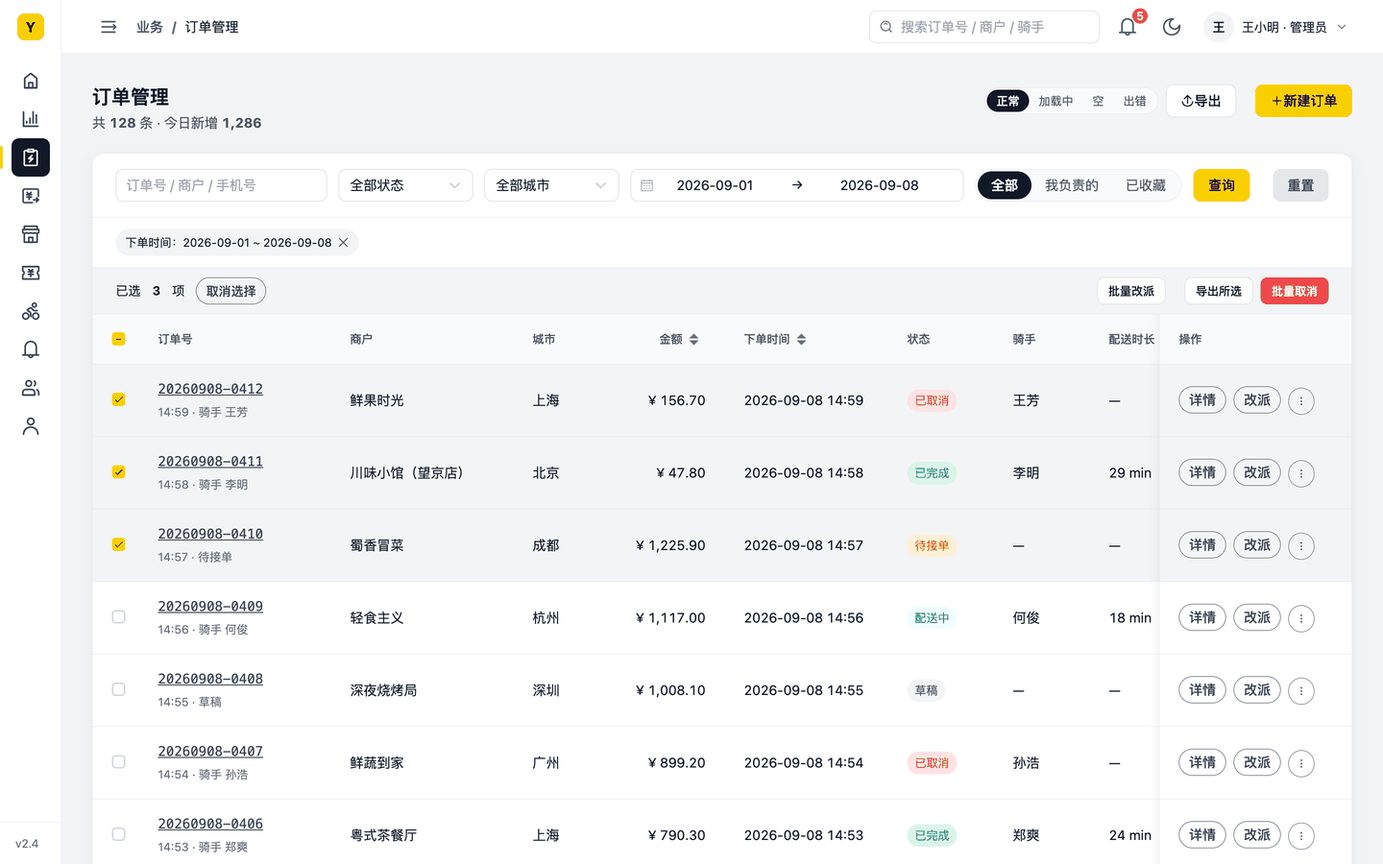
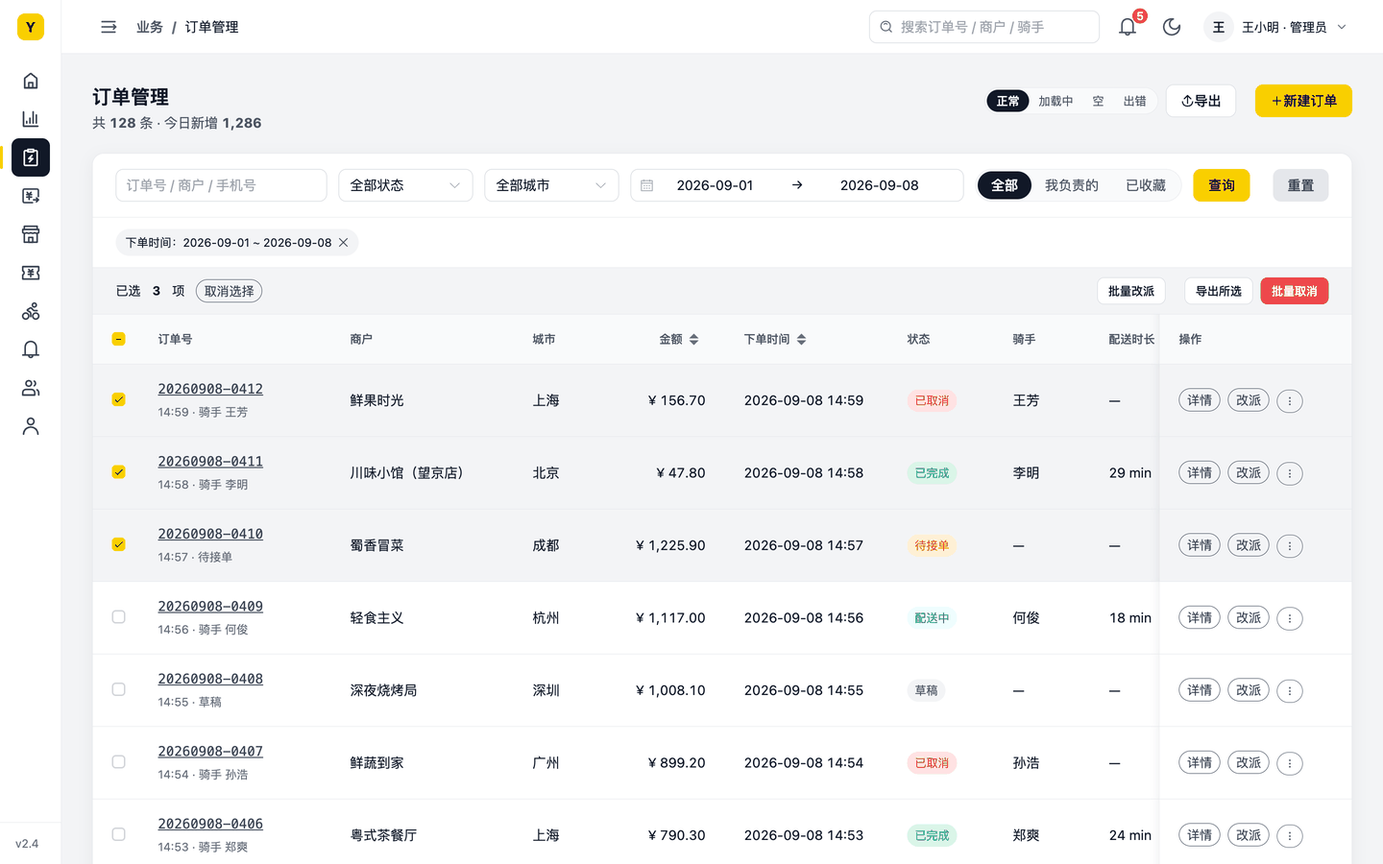
Citrine 2.3.0：操作胶囊减重（24 高 / 13px / 400），修 a 与 button 不同形
- 新增 token control.height.xs（24）：行内胶囊档，不是按钮档
- .act 高 28→24、内边距 10→8、字号 14→13、字重 500→400，与同一行状态胶囊同一轻重
- button.act 不再用 font: inherit 简写（它把字重行高一并重置，导致 a 500 / button 400）
- DESIGN 先读这里 / 链接四层 / 控件档位 / 表格配方与操作列宽估算（44 / 70 / 28）同步；README、AGENTS、预览 admin.css 与 tokens-base 同步
- CHANGELOG 2.3.0、FINDINGS D72；验收全绿；README 截图重拍

diff --git a/citrine/testbed/golden-admin/app/src/styles/app.css b/citrine/testbed/golden-admin/app/src/styles/app.css
@@ -9,14 +9,14 @@ a { color: inherit; text-decoration: none; }
 .link.danger:hover { color: var(--color-text-danger); }
 .link.mono, .mono.link { font-style: normal; }   /* 等宽数字型链接（订单号、单号）不斜体：数字斜体显歪 */
 /* 操作链接（动词：编辑 / 复制 / 详情 / 改派 / 催单…）：不是内容型链接，不斜体不下划线。
-   形态是"同色胶囊描边"——文字与描边同色（currentColor），无填充，高度 control.height.sm，胶囊圆角；hover 底色 bg.hover。
-   与按钮的区别：不填充、描边是发丝线、字重 500 而非按钮的实底 / 描边灰。危险动作红字红边，hover 浅红底。相邻胶囊间距 space.inline，不再用「·」分隔 */
-.act, td .act { color: var(--color-text-link); font-weight: var(--text-weight-label); text-decoration: none; font-style: normal; cursor: pointer; display: inline-flex; align-items: center; justify-content: center; gap: var(--spacing-1); height: var(--control-height-sm); min-height: 0; padding: 0 var(--spacing-2-5); border: var(--border-width-default) solid currentColor; border-radius: var(--radius-full); line-height: 1; white-space: nowrap; }
+   形态是"同色胶囊描边"——文字与描边同色（currentColor），无填充，行内胶囊档 control.height.xs（与状态胶囊同高）、text.body-sm 字号、400 字重，胶囊圆角；hover 底色 bg.hover。
+   与按钮的区别：不填充、描边是发丝线、不到按钮的高度档。危险动作红字红边，hover 浅红底。相邻胶囊间距 space.inline，不再用「·」分隔 */
+.act, td .act { color: var(--color-text-link); font-family: inherit; font-size: var(--text-body-sm-size); font-weight: var(--font-weight-regular); text-decoration: none; font-style: normal; cursor: pointer; display: inline-flex; align-items: center; justify-content: center; gap: var(--spacing-1); height: var(--control-height-xs); min-height: 0; padding: 0 var(--spacing-2); border: var(--border-width-default) solid currentColor; border-radius: var(--radius-full); line-height: 1; white-space: nowrap; }
 .act:hover { color: var(--color-text-link-hover); background: var(--color-bg-hover); }
 .act.danger, .act.danger:hover { color: var(--color-text-danger); }
 .act.danger:hover { background: var(--color-status-error-bg); }
 .act + .act { margin-left: var(--space-inline); }
-button.act { background: transparent; font: inherit; }   /* 用 <button> 承载时去掉浏览器默认外观；<a> 与 <button> 同形 */
+button.act { background: transparent; margin: 0; }   /* 用 <button> 承载时去掉浏览器默认外观；字体由 .act 自己声明（不能用 font 简写 inherit——它会把字重、行高一并重置，<a> 与 <button> 就不同形了） */
 .act:disabled, .act.is-disabled { opacity: var(--opacity-disabled); cursor: not-allowed; pointer-events: none; }   /* 不可用的动作保留位置、压淡，不隐藏——列宽不跳 */
 /* 导览链接（查看全部 / 查看列表）：不是动作而是"去另一处看"，文字 + 右箭头图标引导，不描边不斜体；只有图标时（列表项右侧的 ›）用 icon.muted */
 .go { display: inline-flex; align-items: center; gap: var(--spacing-1); color: var(--color-text-link); font-weight: var(--text-weight-label); text-decoration: none; font-style: normal; cursor: pointer; min-height: var(--control-hit-min); }

diff --git a/citrine/previews/yellow-admin/admin.css b/citrine/previews/yellow-admin/admin.css
@@ -9,7 +9,7 @@ a { color: inherit; text-decoration: none; }
 td a, p a, .alert a, .help a, .link { color: var(--color-text-link); text-decoration: var(--text-link-decoration); font-style: var(--text-link-style); }
 td a:hover, p a:hover, .alert a:hover, .help a:hover, .link:hover { color: var(--color-text-link-hover); }
 /* 操作链接（动词）：同色胶囊描边，不斜体不下划线，500 字重，hover 底色；内容型链接（订单号、名称）保留斜体 + 下划线 */
-.act, td a.act, .alert a.act, p a.act { color: var(--color-text-link); font-weight: var(--text-weight-label); text-decoration: none; font-style: normal; display: inline-flex; align-items: center; height: var(--control-height-sm); padding: 0 var(--spacing-2-5); border: var(--border-width-default) solid currentColor; border-radius: var(--radius-full); line-height: 1; white-space: nowrap; }
+.act, td a.act, .alert a.act, p a.act { color: var(--color-text-link); font-size: var(--text-body-sm-size); font-weight: var(--font-weight-regular); text-decoration: none; font-style: normal; display: inline-flex; align-items: center; height: var(--control-height-xs); padding: 0 var(--spacing-2); border: var(--border-width-default) solid currentColor; border-radius: var(--radius-full); line-height: 1; white-space: nowrap; }
 .act:hover, td a.act:hover { color: var(--color-text-link-hover); background: var(--color-bg-hover); }
 .act + .act { margin-left: var(--space-inline); }
 /* 导览链接（查看全部 / 查看列表 →）：文字 + 箭头引导，不描边不斜体 */

diff --git a/citrine/previews/yellow-admin/tokens-base.css b/citrine/previews/yellow-admin/tokens-base.css
@@ -46,7 +46,7 @@
   --color-text-on-danger: #FFFFFF;
   --color-control-knob: #FFFFFF;
 
-  --control-height-sm: 28px; --control-hit-min: 24px; --control-segmented-inset: 2px;
+  --control-height-xs: 24px; --control-height-sm: 28px; --control-hit-min: 24px; --control-segmented-inset: 2px;
   --control-height-md: 34px;
   --control-height-lg: 40px;
   --icon-size-xs: 12px;

diff --git a/citrine/previews/yellow-admin/seed-dist/index.css b/citrine/previews/yellow-admin/seed-dist/index.css
@@ -158,6 +158,7 @@
   --size-control-sm: 28px;
   --control-height-sm: var(--size-control-sm);
   --size-control-xs: 24px;
+  --control-height-xs: var(--size-control-xs);
   --control-hit-min: var(--size-control-xs);
   --spacing-0-5: 2px;
   --control-segmented-inset: var(--spacing-0-5);

diff --git a/citrine/previews/yellow-admin/seed-dist/tokens.css b/citrine/previews/yellow-admin/seed-dist/tokens.css
@@ -158,6 +158,7 @@
   --size-control-sm: 28px;
   --control-height-sm: var(--size-control-sm);
   --size-control-xs: 24px;
+  --control-height-xs: var(--size-control-xs);
   --control-hit-min: var(--size-control-xs);
   --spacing-0-5: 2px;
   --control-segmented-inset: var(--spacing-0-5);

diff --git a/citrine/testbed/legacy-shop/design-system/dist/index.css b/citrine/testbed/legacy-shop/design-system/dist/index.css
@@ -158,6 +158,7 @@
   --size-control-sm: 28px;
   --control-height-sm: var(--size-control-sm);
   --size-control-xs: 24px;
+  --control-height-xs: var(--size-control-xs);
   --control-hit-min: var(--size-control-xs);
   --spacing-0-5: 2px;
   --control-segmented-inset: var(--spacing-0-5);

diff --git a/citrine/testbed/legacy-shop/design-system/dist/tokens.css b/citrine/testbed/legacy-shop/design-system/dist/tokens.css
@@ -158,6 +158,7 @@
   --size-control-sm: 28px;
   --control-height-sm: var(--size-control-sm);
   --size-control-xs: 24px;
+  --control-height-xs: var(--size-control-xs);
   --control-hit-min: var(--size-control-xs);
   --spacing-0-5: 2px;
   --control-segmented-inset: var(--spacing-0-5);

diff --git a/citrine/seeds/brand-yellow-e/design-system/DESIGN.md b/citrine/seeds/brand-yellow-e/design-system/DESIGN.md
@@ -9,7 +9,7 @@
 1. 黄只做主操作面：主按钮、进行中的进度 / 滑杆填充、勾选 / 开关选中、当前步骤、分页当前页、品牌 logo、数据卡左描边。**选中、当前、强调一律用深黑反转块或近黑文字**，不用黄——头像、角色 / 置顶徽标、已结束的进度条都不是黄。
 2. 黄底深字、白底无黄字、任何 hover / focus 不出现黄。
 3. 状态色只做"文字 + 同色浅底"胶囊；实底按钮只有主（黄）与危险（红底白字）；`type=success / warning / info` 按钮不用。
-4. 按钮不能裸放：有描边（次要）或浅底（quiet 文字按钮）。链接分四层：内容型（订单号、名称：下划线 + 斜体）、操作型（编辑 / 详情 / 改派等动词：同色胶囊描边、500 字重、不斜体、hover 底色、危险红字红边）、导览型（查看全部 / 查看列表：文字 + 右箭头图标，不描边）、标题型（列表项标题：近黑 + 500）。表格操作列默认操作胶囊，审批类决定才用 quiet 按钮。
+4. 按钮不能裸放：有描边（次要）或浅底（quiet 文字按钮）。链接分四层：内容型（订单号、名称：下划线 + 斜体）、操作型（编辑 / 详情 / 改派等动词：同色胶囊描边，行内胶囊档 `control.height.xs` 高、`text.body-sm` 字号、400 字重——与状态胶囊同一轻重，不斜体、hover 底色、危险红字红边）、导览型（查看全部 / 查看列表：文字 + 右箭头图标，不描边）、标题型（列表项标题：近黑 + 500）。表格操作列默认操作胶囊，审批类决定才用 quiet 按钮。
 5. 筛选栏：控件不带可见标签（靠 `aria-label`），下拉默认值是真实选项「全部…」，关键词框占位符描述可搜字段；动作区「查询」主按钮 +「重置」quiet，折行时整体换到下一行右对齐。
 6. 尺寸只从 token 拿：控件高 `control.height.*`，间距 `space.* / spacing.*`，圆角按容器层级递减，字号 8 档阶梯；**列宽与筛选控件宽度不是 token**（按内容定，关键词框用 `layout.search-width`）。页面骨架（页头 / 列表 / 表单 / 分步 / 详情 / 结果）见「页面骨架」一节。
 7. 字重：正文与胶囊 400，按钮 / 表头 / 标签 500，反转块选中 500，数据大字 700。
@@ -22,7 +22,7 @@
 - 品牌是一个高饱和的正黄（`color.brand.500`），中后台里它只做「唯一焦点」：主按钮、进度 / 强度、指示条（含数据卡的左描边点缀）。**黄色表达"主操作"，不表达"选中"**：分段选择器、视图 / 状态切换、侧栏当前项这类选中态一律用深黑反转块（`color.action.selected` + `color.text.on-selected`），黄色最多留给旁边的指示条。页面 90% 以上面积保持冷灰白中性色，黄色出现的地方就是该被注意的地方。
 - 黄底永远深字。品牌黄上白字对比度只有约 1.5:1，`color.text.on-primary` 固定为近黑；任何在黄色上放浅色文字的写法都不合规。
 - 品牌黄只有一个值 `brand.500`，**没有延伸色**：不做浅调（奶油黄）、不做深金、不做半透明洗色——实测发现它们在界面里显脏。需要层次时用无色系：冷灰（`neutral.*`）做底与分隔，近黑（`neutral.900`，#111827 带一丝深蓝）做选中块、焦点边线、品牌插图的描边。白底上没有任何黄色文字：黄字白底 1.5:1 不可读，品牌强调靠「黑 + 纯黄」的对比而不是金色文字。
-- 链接不用色相（品牌决定），分四层：**内容型链接**——正文、表格单元格里指向另一处内容的文字（订单号、商户名、活动名、公告正文里的链接），`color.text.link` 中性深灰 + 常态下划线（`text.link.decoration`）+ 斜体（`text.link.style`），hover 加深到 `text.link-hover`；**操作链接**——动词（编辑 / 复制 / 详情 / 改派 / 催单 / 取消选择 / 忘记密码），出现在操作列、卡片页脚、提示条、批量条里，形态是**同色胶囊描边**：`text.link` + `text.weight.label`（500），文字与描边同色（currentColor）、发丝线、`radius.full`、高 `control.height.sm`、无填充，**不斜体不下划线**，hover 换 `bg.hover` 底色；危险动作 `text.danger` 红字红边，hover `status.error-bg`；相邻胶囊间距 `space.inline`，不用「·」分隔——把动词排成斜体下划线像被强调的正文，是错的；与按钮的区别是不填充、描边是发丝线而不是 `border.strong`；**导览链接**——「查看全部」「查看列表」这类"去另一处看"的入口，不是动作也不是内容：`text.link` + 500，**文字 + 右箭头图标**（`icon.size.sm`）引导，不描边不斜体，hover 箭头右移 `spacing.0-5`；只有图标的版本（列表项右侧的 ›）用 `icon.muted`；**标题型链接**——列表项标题（待办、公告）本身可点，`text.primary` + 500，hover 出下划线。导航、标签页、分页、菜单是组件型链接，各有自己的颜色规则。注意中文字体没有真斜体，浏览器合成的假斜体在雅黑上可读性略降，所以链接文字宜短；**等宽数字型链接（订单号、单号）不斜体**，只保留下划线——数字斜体显歪。危险动作的内容型链接用 `text.danger` 红字（白底上），与普通链接分开。
+- 链接不用色相（品牌决定），分四层：**内容型链接**——正文、表格单元格里指向另一处内容的文字（订单号、商户名、活动名、公告正文里的链接），`color.text.link` 中性深灰 + 常态下划线（`text.link.decoration`）+ 斜体（`text.link.style`），hover 加深到 `text.link-hover`；**操作链接**——动词（编辑 / 复制 / 详情 / 改派 / 催单 / 取消选择 / 忘记密码），出现在操作列、卡片页脚、提示条、批量条里，形态是**同色胶囊描边**：`text.link`、`text.body-sm` 字号（13）、400 字重（描边已经给出"可点"的信号，再加粗就重了；与同一行的状态胶囊同一轻重），文字与描边同色（currentColor）、发丝线、`radius.full`、高 `control.height.xs`（24，与状态胶囊同高——比按钮最小档 sm 还低一档，才不会和按钮抢重量）、左右内边距 `spacing.2`、无填充，**不斜体不下划线**，hover 换 `bg.hover` 底色；危险动作 `text.danger` 红字红边，hover `status.error-bg`；相邻胶囊间距 `space.inline`，不用「·」分隔——把动词排成斜体下划线像被强调的正文，是错的；与按钮的区别是不填充、描边是发丝线而不是 `border.strong`；**导览链接**——「查看全部」「查看列表」这类"去另一处看"的入口，不是动作也不是内容：`text.link` + 500，**文字 + 右箭头图标**（`icon.size.sm`）引导，不描边不斜体，hover 箭头右移 `spacing.0-5`；只有图标的版本（列表项右侧的 ›）用 `icon.muted`；**标题型链接**——列表项标题（待办、公告）本身可点，`text.primary` + 500，hover 出下划线。导航、标签页、分页、菜单是组件型链接，各有自己的颜色规则。注意中文字体没有真斜体，浏览器合成的假斜体在雅黑上可读性略降，所以链接文字宜短；**等宽数字型链接（订单号、单号）不斜体**，只保留下划线——数字斜体显歪。危险动作的内容型链接用 `text.danger` 红字（白底上），与普通链接分开。
 - 亲和感与层次感来自灰、黑、黄三者的配比：黄只以纯色小面积出现（主按钮、进度填充、指示条、品牌徽标、two-tone 插图的填充），灰承担 90% 的面积与所有中间层次，黑承担选中与强调。hover / active 不换黄色的深浅（延伸色显脏），用边线变黑、内阴影表达。
 - 中性色是冷灰（gray 族），暗色深底与它同族。冷灰让品牌黄与深蓝近黑形成互补对比，黄更跳；暖灰会让整个界面显黄、显脏（「黄的淡色落在冷灰上变橄榄」的顾虑只在黄有延伸色时成立，本系统没有延伸色）。弱化文字（`color.text.muted`）最浅只到 neutral.500（白底 5.2:1、页面底上 4.7:1）；neutral.400 只允许出现在输入框占位符（`color.text.placeholder`）上，且占位符永远不能是字段唯一的标签——有可见标签的字段（含必填项）可以用占位符给格式或示例提示。
 - 状态色与图表色以公司调色板为**色相参考**（Success Green / Warning Orange / Danger Red / Info Cyan / Purple / Primary Blue），让多条产品线的状态语义看起来是一家的；具体值按对比度与冷暖调校，公司原值保留在 token 描述里。本系统主色是黄，所以调色板里的 Primary Blue 只做图表分类色，链接、焦点、选中态一律无色系。warning 是橙不是黄，与品牌黄靠色相区分——「主操作」和「警告」必须一眼分开；info 是青不是蓝。
@@ -84,7 +84,7 @@
 - 禁用态的淡黄是 `opacity.disabled` 的结果，不是延伸色，允许；不要为禁用态另造一套灰。
 - 表格行有四种底：默认（或斑马纹 `bg.subtle`）、`bg.hover`、`bg.selected-subtle`（选中）、`bg.selected-hover`（已选中再被悬停）。选中行用 subtle 而不是 `bg.selected`，是因为多选十行再加批量操作条会变成一面黄墙；`bg.selected` 留给徽标、筹码、批量条、侧栏这类小面积元素。选中状态同时由勾选框表达，不能只靠底色。
 - 三种“不可操作”要分清：禁用用 `opacity.disabled`（整个控件变淡）；只读用 `color.bg.readonly` + `text.secondary`（可读可复制，不可改）；加载中用骨架屏 `bg.skeleton / -highlight` 或 `action.primary-active` 的旋转指示器，不用禁用态假装加载。
-- 控件三档高度：`control.height.sm` 用于表格内、筹码、分页；`md` 是默认；`lg` 只用于登录按钮、页面级唯一主操作和触屏场景。
+- 控件三档高度：`control.height.sm` 用于表格内的按钮、筹码、分页；`md` 是默认；`lg` 只用于登录按钮、页面级唯一主操作和触屏场景。另有一档行内胶囊 `control.height.xs`（24）只给操作胶囊与状态胶囊——它不是按钮档，按钮最小到 sm。
 - 页面级宽度约束：单列表单页内容不超过 `layout.form.max-width`；确认类弹窗 `layout.modal.width.sm`，带表单的弹窗 `layout.modal.width.md`；抽屉 `layout.drawer.width`；登录卡 `layout.auth.card-width`。
 - 浮层分三层：下拉菜单、弹窗表面用 `color.bg.elevated`（暗色下必须比 `bg.surface` 亮一档，否则浮层和底板分不开）；弹窗遮罩用 `color.bg.overlay`；Tooltip 和深色 Toast 用 `color.bg.inverse` + `color.text.inverse`（亮色下深底白字，暗色下反过来）。
 - 阴影拆成颜色 + 偏移 + 模糊三个 Token，写法固定为 `box-shadow: 0 var(--elevation-<层>-y) var(--elevation-<层>-blur) var(--elevation-<层>-color)`，三层分别是 `card`、`popover`、`modal`，偏移与模糊逐层放大、颜色逐层加深，数值以 token 为准。卡片用「细边线定形 + 软阴影定层」：外框仍是 `border.default`（neutral.200）——它必须与页面底色 neutral.100 可区分，再浅一档就会与底色重合、边缘发虚；亲和感来自这层柔和阴影，而不是把边线抹掉。暗色下卡片阴影色是透明（靠边线分层），浮层和弹窗换成更重的黑色阴影。
@@ -134,14 +134,14 @@
 | 次要按钮 | `bg.surface`，hover `action.secondary-hover` | `text.primary` | `border.strong` |
 | 文字按钮（quiet） | 静息 `action.quiet` 浅底，hover / active `action.quiet-hover` | `text.link` / hover `text.link-hover` | 无边线；**按钮类内容不能无框架直接放在背景上**（用户规则）：要么描边（次要按钮），要么浅底（quiet），不允许裸文字当按钮 |
 | 内容型链接（订单号、名称、正文里的链接） | — | `text.link`，hover `text.link-hover` | `text.link.decoration` + `text.link.style`；等宽数字型链接不斜体 |
-| 操作链接（编辑 / 复制 / 详情 / 改派 / 催单 / 取消选择…） | 无填充；hover `bg.hover`（危险 `status.error-bg`） | `text.link` + `text.weight.label`；危险动作 `text.danger`（hover 不变色） | **同色胶囊描边**：`border.width.default` × currentColor，`radius.full`，高 `control.height.sm`，左右内边距 `spacing.2-5`；不斜体不下划线；相邻胶囊间距 `space.inline`，一行最多 3 个，其余收进「⋯」图标胶囊；导航用 `<a>`、不导航的动作用 `<button>`，二者同形；**不可用时保留位置、`opacity.disabled` 压淡**，不隐藏（列宽不跳） |
+| 操作链接（编辑 / 复制 / 详情 / 改派 / 催单 / 取消选择…） | 无填充；hover `bg.hover`（危险 `status.error-bg`） | `text.link` + `text.body-sm.size` + 400（`<a>` 与 `<button>` 同形：button 不要写 `font: inherit`，简写会把字重、行高一并重置）；危险动作 `text.danger`（hover 不变色） | **同色胶囊描边**：`border.width.default` × currentColor，`radius.full`，高 `control.height.xs`（与状态胶囊同高），左右内边距 `spacing.2`；不斜体不下划线；相邻胶囊间距 `space.inline`，一行最多 3 个，其余收进「⋯」图标胶囊；导航用 `<a>`、不导航的动作用 `<button>`，二者同形；**不可用时保留位置、`opacity.disabled` 压淡**，不隐藏（列宽不跳） |
 | 导览链接（查看全部 / 查看列表） | — | `text.link` + `text.weight.label`，hover `text.link-hover` | 文字 + 右箭头 `icon.size.sm`，hover 箭头右移 `spacing.0-5`；不描边不斜体；只有图标时（列表项右侧 ›）`icon.muted`，命中区 ≥ `control.hit-min` |
 | 标题型链接（待办、公告的标题） | — | `text.primary` + `text.weight.label`，hover `text.link-hover` + 下划线 | 不斜体、常态无下划线 |
 | 危险按钮 | `action.danger` / `-hover` / `-active` | `text.on-danger` | — |
 | 禁用态（任何控件） | 不换色 | 不换色 | `opacity.disabled` |
 | 输入框 / 搜索框 | `bg.input` | `text.primary`，占位符 `text.placeholder` | `border.input`；聚焦 `border.focus` + `focus.ring` × `focus.ring.width`；出错 `status.error` |
 | 卡片 | `bg.surface` | — | `border.default`，`radius.lg`，`elevation.card.*`，内边距 `space.card` |
-| 表格 | 表头 `bg.subtle`；斑马纹 `bg.subtle`；行 hover `bg.hover`；选中 `bg.selected-subtle`；选中 + hover `bg.selected-hover` | 表头 `text.secondary`（`text.small.size`），副行 `text.muted`，数字列 `text.numeric.variant` | 行分隔 `border.default`；单元格内边距 `table.cell.padding-y / -x`；排序激活 `text.selected`；固定列右缘 `elevation.popover.*`。**操作列**：默认是一串操作胶囊（详情 改派 ⋯，间距 `space.inline`），危险动作红字红边；列宽按胶囊估算——两字胶囊约 52px、四字约 80px、图标胶囊约 36px，加间距与单元格内边距，胶囊不得换行；只有审批类决定（通过 / 拒绝、确认 / 驳回）用 small quiet 文字按钮（`text` + `size="small"`），危险的用 `type="danger" text`（红字 + `status.error-bg` 浅红底，hover 同色发丝边——不是灰底红字）；无论哪种形态，**危险动作不得与普通动作同色**；一行最多 3 个动作，更多收进下拉「更多」；不可操作的行放 `text.muted` 的「—」；不用描边次要按钮排成一列；单元格里的名称 / 单号才是内容型链接 |
+| 表格 | 表头 `bg.subtle`；斑马纹 `bg.subtle`；行 hover `bg.hover`；选中 `bg.selected-subtle`；选中 + hover `bg.selected-hover` | 表头 `text.secondary`（`text.small.size`），副行 `text.muted`，数字列 `text.numeric.variant` | 行分隔 `border.default`；单元格内边距 `table.cell.padding-y / -x`；排序激活 `text.selected`；固定列右缘 `elevation.popover.*`。**操作列**：默认是一串操作胶囊（详情 改派 ⋯，间距 `space.inline`），危险动作红字红边；列宽按胶囊估算——两字胶囊约 44px、四字约 70px、图标胶囊约 28px，加间距与单元格内边距，胶囊不得换行；只有审批类决定（通过 / 拒绝、确认 / 驳回）用 small quiet 文字按钮（`text` + `size="small"`），危险的用 `type="danger" text`（红字 + `status.error-bg` 浅红底，hover 同色发丝边——不是灰底红字）；无论哪种形态，**危险动作不得与普通动作同色**；一行最多 3 个动作，更多收进下拉「更多」；不可操作的行放 `text.muted` 的「—」；不用描边次要按钮排成一列；单元格里的名称 / 单号才是内容型链接 |
 | 筛选栏 | 条件区无底；控件不带可见标签，靠 `aria-label` 命名（筛选栏是紧凑形态，占位符规则在这里的例外只有关键词框：占位符列出可搜字段，且带 `aria-label` 与清除按钮） | 下拉默认值是真实选项「全部…」，用正文色 | 条件区 / 动作区两组；动作区「查询」主按钮 +「重置」quiet 文字按钮，`margin-left: auto`，折行时整体换行右对齐；关键词框宽 `layout.search-width`，其余控件按内容定宽 |
 | 已选筹码 / 批量操作条 | `bg.selected` | 「已选 N 项」`text.selected` + `text.weight.strong`；带「取消选择」内容型链接 | 按钮 small：普通批量为次要按钮，破坏性批量为实底危险按钮；条随勾选出现，位于表格上方 |
 | 选项卡片（改派骑手、派单选单） | 默认 `bg.surface`；hover `bg.hover`；选中 `bg.selected-subtle` | `text.primary`，meta `text.muted` | 边线 `border.default`，选中 `border.focus`；卡片撑满容器宽度（radio-group 默认 align-items:center 会把它挤成内容宽） |

diff --git a/citrine/testbed/golden-admin/app/design-system/DESIGN.md b/citrine/testbed/golden-admin/app/design-system/DESIGN.md
@@ -9,7 +9,7 @@
 1. 黄只做主操作面：主按钮、进行中的进度 / 滑杆填充、勾选 / 开关选中、当前步骤、分页当前页、品牌 logo、数据卡左描边。**选中、当前、强调一律用深黑反转块或近黑文字**，不用黄——头像、角色 / 置顶徽标、已结束的进度条都不是黄。
 2. 黄底深字、白底无黄字、任何 hover / focus 不出现黄。
 3. 状态色只做"文字 + 同色浅底"胶囊；实底按钮只有主（黄）与危险（红底白字）；`type=success / warning / info` 按钮不用。
-4. 按钮不能裸放：有描边（次要）或浅底（quiet 文字按钮）。链接分四层：内容型（订单号、名称：下划线 + 斜体）、操作型（编辑 / 详情 / 改派等动词：同色胶囊描边、500 字重、不斜体、hover 底色、危险红字红边）、导览型（查看全部 / 查看列表：文字 + 右箭头图标，不描边）、标题型（列表项标题：近黑 + 500）。表格操作列默认操作胶囊，审批类决定才用 quiet 按钮。
+4. 按钮不能裸放：有描边（次要）或浅底（quiet 文字按钮）。链接分四层：内容型（订单号、名称：下划线 + 斜体）、操作型（编辑 / 详情 / 改派等动词：同色胶囊描边，行内胶囊档 `control.height.xs` 高、`text.body-sm` 字号、400 字重——与状态胶囊同一轻重，不斜体、hover 底色、危险红字红边）、导览型（查看全部 / 查看列表：文字 + 右箭头图标，不描边）、标题型（列表项标题：近黑 + 500）。表格操作列默认操作胶囊，审批类决定才用 quiet 按钮。
 5. 筛选栏：控件不带可见标签（靠 `aria-label`），下拉默认值是真实选项「全部…」，关键词框占位符描述可搜字段；动作区「查询」主按钮 +「重置」quiet，折行时整体换到下一行右对齐。
 6. 尺寸只从 token 拿：控件高 `control.height.*`，间距 `space.* / spacing.*`，圆角按容器层级递减，字号 8 档阶梯；**列宽与筛选控件宽度不是 token**（按内容定，关键词框用 `layout.search-width`）。页面骨架（页头 / 列表 / 表单 / 分步 / 详情 / 结果）见「页面骨架」一节。
 7. 字重：正文与胶囊 400，按钮 / 表头 / 标签 500，反转块选中 500，数据大字 700。
@@ -22,7 +22,7 @@
 - 品牌是一个高饱和的正黄（`color.brand.500`），中后台里它只做「唯一焦点」：主按钮、进度 / 强度、指示条（含数据卡的左描边点缀）。**黄色表达"主操作"，不表达"选中"**：分段选择器、视图 / 状态切换、侧栏当前项这类选中态一律用深黑反转块（`color.action.selected` + `color.text.on-selected`），黄色最多留给旁边的指示条。页面 90% 以上面积保持冷灰白中性色，黄色出现的地方就是该被注意的地方。
 - 黄底永远深字。品牌黄上白字对比度只有约 1.5:1，`color.text.on-primary` 固定为近黑；任何在黄色上放浅色文字的写法都不合规。
 - 品牌黄只有一个值 `brand.500`，**没有延伸色**：不做浅调（奶油黄）、不做深金、不做半透明洗色——实测发现它们在界面里显脏。需要层次时用无色系：冷灰（`neutral.*`）做底与分隔，近黑（`neutral.900`，#111827 带一丝深蓝）做选中块、焦点边线、品牌插图的描边。白底上没有任何黄色文字：黄字白底 1.5:1 不可读，品牌强调靠「黑 + 纯黄」的对比而不是金色文字。
-- 链接不用色相（品牌决定），分四层：**内容型链接**——正文、表格单元格里指向另一处内容的文字（订单号、商户名、活动名、公告正文里的链接），`color.text.link` 中性深灰 + 常态下划线（`text.link.decoration`）+ 斜体（`text.link.style`），hover 加深到 `text.link-hover`；**操作链接**——动词（编辑 / 复制 / 详情 / 改派 / 催单 / 取消选择 / 忘记密码），出现在操作列、卡片页脚、提示条、批量条里，形态是**同色胶囊描边**：`text.link` + `text.weight.label`（500），文字与描边同色（currentColor）、发丝线、`radius.full`、高 `control.height.sm`、无填充，**不斜体不下划线**，hover 换 `bg.hover` 底色；危险动作 `text.danger` 红字红边，hover `status.error-bg`；相邻胶囊间距 `space.inline`，不用「·」分隔——把动词排成斜体下划线像被强调的正文，是错的；与按钮的区别是不填充、描边是发丝线而不是 `border.strong`；**导览链接**——「查看全部」「查看列表」这类"去另一处看"的入口，不是动作也不是内容：`text.link` + 500，**文字 + 右箭头图标**（`icon.size.sm`）引导，不描边不斜体，hover 箭头右移 `spacing.0-5`；只有图标的版本（列表项右侧的 ›）用 `icon.muted`；**标题型链接**——列表项标题（待办、公告）本身可点，`text.primary` + 500，hover 出下划线。导航、标签页、分页、菜单是组件型链接，各有自己的颜色规则。注意中文字体没有真斜体，浏览器合成的假斜体在雅黑上可读性略降，所以链接文字宜短；**等宽数字型链接（订单号、单号）不斜体**，只保留下划线——数字斜体显歪。危险动作的内容型链接用 `text.danger` 红字（白底上），与普通链接分开。
+- 链接不用色相（品牌决定），分四层：**内容型链接**——正文、表格单元格里指向另一处内容的文字（订单号、商户名、活动名、公告正文里的链接），`color.text.link` 中性深灰 + 常态下划线（`text.link.decoration`）+ 斜体（`text.link.style`），hover 加深到 `text.link-hover`；**操作链接**——动词（编辑 / 复制 / 详情 / 改派 / 催单 / 取消选择 / 忘记密码），出现在操作列、卡片页脚、提示条、批量条里，形态是**同色胶囊描边**：`text.link`、`text.body-sm` 字号（13）、400 字重（描边已经给出"可点"的信号，再加粗就重了；与同一行的状态胶囊同一轻重），文字与描边同色（currentColor）、发丝线、`radius.full`、高 `control.height.xs`（24，与状态胶囊同高——比按钮最小档 sm 还低一档，才不会和按钮抢重量）、左右内边距 `spacing.2`、无填充，**不斜体不下划线**，hover 换 `bg.hover` 底色；危险动作 `text.danger` 红字红边，hover `status.error-bg`；相邻胶囊间距 `space.inline`，不用「·」分隔——把动词排成斜体下划线像被强调的正文，是错的；与按钮的区别是不填充、描边是发丝线而不是 `border.strong`；**导览链接**——「查看全部」「查看列表」这类"去另一处看"的入口，不是动作也不是内容：`text.link` + 500，**文字 + 右箭头图标**（`icon.size.sm`）引导，不描边不斜体，hover 箭头右移 `spacing.0-5`；只有图标的版本（列表项右侧的 ›）用 `icon.muted`；**标题型链接**——列表项标题（待办、公告）本身可点，`text.primary` + 500，hover 出下划线。导航、标签页、分页、菜单是组件型链接，各有自己的颜色规则。注意中文字体没有真斜体，浏览器合成的假斜体在雅黑上可读性略降，所以链接文字宜短；**等宽数字型链接（订单号、单号）不斜体**，只保留下划线——数字斜体显歪。危险动作的内容型链接用 `text.danger` 红字（白底上），与普通链接分开。
 - 亲和感与层次感来自灰、黑、黄三者的配比：黄只以纯色小面积出现（主按钮、进度填充、指示条、品牌徽标、two-tone 插图的填充），灰承担 90% 的面积与所有中间层次，黑承担选中与强调。hover / active 不换黄色的深浅（延伸色显脏），用边线变黑、内阴影表达。
 - 中性色是冷灰（gray 族），暗色深底与它同族。冷灰让品牌黄与深蓝近黑形成互补对比，黄更跳；暖灰会让整个界面显黄、显脏（「黄的淡色落在冷灰上变橄榄」的顾虑只在黄有延伸色时成立，本系统没有延伸色）。弱化文字（`color.text.muted`）最浅只到 neutral.500（白底 5.2:1、页面底上 4.7:1）；neutral.400 只允许出现在输入框占位符（`color.text.placeholder`）上，且占位符永远不能是字段唯一的标签——有可见标签的字段（含必填项）可以用占位符给格式或示例提示。
 - 状态色与图表色以公司调色板为**色相参考**（Success Green / Warning Orange / Danger Red / Info Cyan / Purple / Primary Blue），让多条产品线的状态语义看起来是一家的；具体值按对比度与冷暖调校，公司原值保留在 token 描述里。本系统主色是黄，所以调色板里的 Primary Blue 只做图表分类色，链接、焦点、选中态一律无色系。warning 是橙不是黄，与品牌黄靠色相区分——「主操作」和「警告」必须一眼分开；info 是青不是蓝。
@@ -84,7 +84,7 @@
 - 禁用态的淡黄是 `opacity.disabled` 的结果，不是延伸色，允许；不要为禁用态另造一套灰。
 - 表格行有四种底：默认（或斑马纹 `bg.subtle`）、`bg.hover`、`bg.selected-subtle`（选中）、`bg.selected-hover`（已选中再被悬停）。选中行用 subtle 而不是 `bg.selected`，是因为多选十行再加批量操作条会变成一面黄墙；`bg.selected` 留给徽标、筹码、批量条、侧栏这类小面积元素。选中状态同时由勾选框表达，不能只靠底色。
 - 三种“不可操作”要分清：禁用用 `opacity.disabled`（整个控件变淡）；只读用 `color.bg.readonly` + `text.secondary`（可读可复制，不可改）；加载中用骨架屏 `bg.skeleton / -highlight` 或 `action.primary-active` 的旋转指示器，不用禁用态假装加载。
-- 控件三档高度：`control.height.sm` 用于表格内、筹码、分页；`md` 是默认；`lg` 只用于登录按钮、页面级唯一主操作和触屏场景。
+- 控件三档高度：`control.height.sm` 用于表格内的按钮、筹码、分页；`md` 是默认；`lg` 只用于登录按钮、页面级唯一主操作和触屏场景。另有一档行内胶囊 `control.height.xs`（24）只给操作胶囊与状态胶囊——它不是按钮档，按钮最小到 sm。
 - 页面级宽度约束：单列表单页内容不超过 `layout.form.max-width`；确认类弹窗 `layout.modal.width.sm`，带表单的弹窗 `layout.modal.width.md`；抽屉 `layout.drawer.width`；登录卡 `layout.auth.card-width`。
 - 浮层分三层：下拉菜单、弹窗表面用 `color.bg.elevated`（暗色下必须比 `bg.surface` 亮一档，否则浮层和底板分不开）；弹窗遮罩用 `color.bg.overlay`；Tooltip 和深色 Toast 用 `color.bg.inverse` + `color.text.inverse`（亮色下深底白字，暗色下反过来）。
 - 阴影拆成颜色 + 偏移 + 模糊三个 Token，写法固定为 `box-shadow: 0 var(--elevation-<层>-y) var(--elevation-<层>-blur) var(--elevation-<层>-color)`，三层分别是 `card`、`popover`、`modal`，偏移与模糊逐层放大、颜色逐层加深，数值以 token 为准。卡片用「细边线定形 + 软阴影定层」：外框仍是 `border.default`（neutral.200）——它必须与页面底色 neutral.100 可区分，再浅一档就会与底色重合、边缘发虚；亲和感来自这层柔和阴影，而不是把边线抹掉。暗色下卡片阴影色是透明（靠边线分层），浮层和弹窗换成更重的黑色阴影。
@@ -134,14 +134,14 @@
 | 次要按钮 | `bg.surface`，hover `action.secondary-hover` | `text.primary` | `border.strong` |
 | 文字按钮（quiet） | 静息 `action.quiet` 浅底，hover / active `action.quiet-hover` | `text.link` / hover `text.link-hover` | 无边线；**按钮类内容不能无框架直接放在背景上**（用户规则）：要么描边（次要按钮），要么浅底（quiet），不允许裸文字当按钮 |
 | 内容型链接（订单号、名称、正文里的链接） | — | `text.link`，hover `text.link-hover` | `text.link.decoration` + `text.link.style`；等宽数字型链接不斜体 |
-| 操作链接（编辑 / 复制 / 详情 / 改派 / 催单 / 取消选择…） | 无填充；hover `bg.hover`（危险 `status.error-bg`） | `text.link` + `text.weight.label`；危险动作 `text.danger`（hover 不变色） | **同色胶囊描边**：`border.width.default` × currentColor，`radius.full`，高 `control.height.sm`，左右内边距 `spacing.2-5`；不斜体不下划线；相邻胶囊间距 `space.inline`，一行最多 3 个，其余收进「⋯」图标胶囊；导航用 `<a>`、不导航的动作用 `<button>`，二者同形；**不可用时保留位置、`opacity.disabled` 压淡**，不隐藏（列宽不跳） |
+| 操作链接（编辑 / 复制 / 详情 / 改派 / 催单 / 取消选择…） | 无填充；hover `bg.hover`（危险 `status.error-bg`） | `text.link` + `text.body-sm.size` + 400（`<a>` 与 `<button>` 同形：button 不要写 `font: inherit`，简写会把字重、行高一并重置）；危险动作 `text.danger`（hover 不变色） | **同色胶囊描边**：`border.width.default` × currentColor，`radius.full`，高 `control.height.xs`（与状态胶囊同高），左右内边距 `spacing.2`；不斜体不下划线；相邻胶囊间距 `space.inline`，一行最多 3 个，其余收进「⋯」图标胶囊；导航用 `<a>`、不导航的动作用 `<button>`，二者同形；**不可用时保留位置、`opacity.disabled` 压淡**，不隐藏（列宽不跳） |
 | 导览链接（查看全部 / 查看列表） | — | `text.link` + `text.weight.label`，hover `text.link-hover` | 文字 + 右箭头 `icon.size.sm`，hover 箭头右移 `spacing.0-5`；不描边不斜体；只有图标时（列表项右侧 ›）`icon.muted`，命中区 ≥ `control.hit-min` |
 | 标题型链接（待办、公告的标题） | — | `text.primary` + `text.weight.label`，hover `text.link-hover` + 下划线 | 不斜体、常态无下划线 |
 | 危险按钮 | `action.danger` / `-hover` / `-active` | `text.on-danger` | — |
 | 禁用态（任何控件） | 不换色 | 不换色 | `opacity.disabled` |
 | 输入框 / 搜索框 | `bg.input` | `text.primary`，占位符 `text.placeholder` | `border.input`；聚焦 `border.focus` + `focus.ring` × `focus.ring.width`；出错 `status.error` |
 | 卡片 | `bg.surface` | — | `border.default`，`radius.lg`，`elevation.card.*`，内边距 `space.card` |
-| 表格 | 表头 `bg.subtle`；斑马纹 `bg.subtle`；行 hover `bg.hover`；选中 `bg.selected-subtle`；选中 + hover `bg.selected-hover` | 表头 `text.secondary`（`text.small.size`），副行 `text.muted`，数字列 `text.numeric.variant` | 行分隔 `border.default`；单元格内边距 `table.cell.padding-y / -x`；排序激活 `text.selected`；固定列右缘 `elevation.popover.*`。**操作列**：默认是一串操作胶囊（详情 改派 ⋯，间距 `space.inline`），危险动作红字红边；列宽按胶囊估算——两字胶囊约 52px、四字约 80px、图标胶囊约 36px，加间距与单元格内边距，胶囊不得换行；只有审批类决定（通过 / 拒绝、确认 / 驳回）用 small quiet 文字按钮（`text` + `size="small"`），危险的用 `type="danger" text`（红字 + `status.error-bg` 浅红底，hover 同色发丝边——不是灰底红字）；无论哪种形态，**危险动作不得与普通动作同色**；一行最多 3 个动作，更多收进下拉「更多」；不可操作的行放 `text.muted` 的「—」；不用描边次要按钮排成一列；单元格里的名称 / 单号才是内容型链接 |
+| 表格 | 表头 `bg.subtle`；斑马纹 `bg.subtle`；行 hover `bg.hover`；选中 `bg.selected-subtle`；选中 + hover `bg.selected-hover` | 表头 `text.secondary`（`text.small.size`），副行 `text.muted`，数字列 `text.numeric.variant` | 行分隔 `border.default`；单元格内边距 `table.cell.padding-y / -x`；排序激活 `text.selected`；固定列右缘 `elevation.popover.*`。**操作列**：默认是一串操作胶囊（详情 改派 ⋯，间距 `space.inline`），危险动作红字红边；列宽按胶囊估算——两字胶囊约 44px、四字约 70px、图标胶囊约 28px，加间距与单元格内边距，胶囊不得换行；只有审批类决定（通过 / 拒绝、确认 / 驳回）用 small quiet 文字按钮（`text` + `size="small"`），危险的用 `type="danger" text`（红字 + `status.error-bg` 浅红底，hover 同色发丝边——不是灰底红字）；无论哪种形态，**危险动作不得与普通动作同色**；一行最多 3 个动作，更多收进下拉「更多」；不可操作的行放 `text.muted` 的「—」；不用描边次要按钮排成一列；单元格里的名称 / 单号才是内容型链接 |
 | 筛选栏 | 条件区无底；控件不带可见标签，靠 `aria-label` 命名（筛选栏是紧凑形态，占位符规则在这里的例外只有关键词框：占位符列出可搜字段，且带 `aria-label` 与清除按钮） | 下拉默认值是真实选项「全部…」，用正文色 | 条件区 / 动作区两组；动作区「查询」主按钮 +「重置」quiet 文字按钮，`margin-left: auto`，折行时整体换行右对齐；关键词框宽 `layout.search-width`，其余控件按内容定宽 |
 | 已选筹码 / 批量操作条 | `bg.selected` | 「已选 N 项」`text.selected` + `text.weight.strong`；带「取消选择」内容型链接 | 按钮 small：普通批量为次要按钮，破坏性批量为实底危险按钮；条随勾选出现，位于表格上方 |
 | 选项卡片（改派骑手、派单选单） | 默认 `bg.surface`；hover `bg.hover`；选中 `bg.selected-subtle` | `text.primary`，meta `text.muted` | 边线 `border.default`，选中 `border.focus`；卡片撑满容器宽度（radio-group 默认 align-items:center 会把它挤成内容宽） |

diff --git a/citrine/testbed/legacy-shop/design-system/DESIGN.md b/citrine/testbed/legacy-shop/design-system/DESIGN.md
@@ -9,7 +9,7 @@
 1. 黄只做主操作面：主按钮、进行中的进度 / 滑杆填充、勾选 / 开关选中、当前步骤、分页当前页、品牌 logo、数据卡左描边。**选中、当前、强调一律用深黑反转块或近黑文字**，不用黄——头像、角色 / 置顶徽标、已结束的进度条都不是黄。
 2. 黄底深字、白底无黄字、任何 hover / focus 不出现黄。
 3. 状态色只做"文字 + 同色浅底"胶囊；实底按钮只有主（黄）与危险（红底白字）；`type=success / warning / info` 按钮不用。
-4. 按钮不能裸放：有描边（次要）或浅底（quiet 文字按钮）。链接分四层：内容型（订单号、名称：下划线 + 斜体）、操作型（编辑 / 详情 / 改派等动词：同色胶囊描边、500 字重、不斜体、hover 底色、危险红字红边）、导览型（查看全部 / 查看列表：文字 + 右箭头图标，不描边）、标题型（列表项标题：近黑 + 500）。表格操作列默认操作胶囊，审批类决定才用 quiet 按钮。
+4. 按钮不能裸放：有描边（次要）或浅底（quiet 文字按钮）。链接分四层：内容型（订单号、名称：下划线 + 斜体）、操作型（编辑 / 详情 / 改派等动词：同色胶囊描边，行内胶囊档 `control.height.xs` 高、`text.body-sm` 字号、400 字重——与状态胶囊同一轻重，不斜体、hover 底色、危险红字红边）、导览型（查看全部 / 查看列表：文字 + 右箭头图标，不描边）、标题型（列表项标题：近黑 + 500）。表格操作列默认操作胶囊，审批类决定才用 quiet 按钮。
 5. 筛选栏：控件不带可见标签（靠 `aria-label`），下拉默认值是真实选项「全部…」，关键词框占位符描述可搜字段；动作区「查询」主按钮 +「重置」quiet，折行时整体换到下一行右对齐。
 6. 尺寸只从 token 拿：控件高 `control.height.*`，间距 `space.* / spacing.*`，圆角按容器层级递减，字号 8 档阶梯；**列宽与筛选控件宽度不是 token**（按内容定，关键词框用 `layout.search-width`）。页面骨架（页头 / 列表 / 表单 / 分步 / 详情 / 结果）见「页面骨架」一节。
 7. 字重：正文与胶囊 400，按钮 / 表头 / 标签 500，反转块选中 500，数据大字 700。
@@ -22,7 +22,7 @@
 - 品牌是一个高饱和的正黄（`color.brand.500`），中后台里它只做「唯一焦点」：主按钮、进度 / 强度、指示条（含数据卡的左描边点缀）。**黄色表达"主操作"，不表达"选中"**：分段选择器、视图 / 状态切换、侧栏当前项这类选中态一律用深黑反转块（`color.action.selected` + `color.text.on-selected`），黄色最多留给旁边的指示条。页面 90% 以上面积保持冷灰白中性色，黄色出现的地方就是该被注意的地方。
 - 黄底永远深字。品牌黄上白字对比度只有约 1.5:1，`color.text.on-primary` 固定为近黑；任何在黄色上放浅色文字的写法都不合规。
 - 品牌黄只有一个值 `brand.500`，**没有延伸色**：不做浅调（奶油黄）、不做深金、不做半透明洗色——实测发现它们在界面里显脏。需要层次时用无色系：冷灰（`neutral.*`）做底与分隔，近黑（`neutral.900`，#111827 带一丝深蓝）做选中块、焦点边线、品牌插图的描边。白底上没有任何黄色文字：黄字白底 1.5:1 不可读，品牌强调靠「黑 + 纯黄」的对比而不是金色文字。
-- 链接不用色相（品牌决定），分四层：**内容型链接**——正文、表格单元格里指向另一处内容的文字（订单号、商户名、活动名、公告正文里的链接），`color.text.link` 中性深灰 + 常态下划线（`text.link.decoration`）+ 斜体（`text.link.style`），hover 加深到 `text.link-hover`；**操作链接**——动词（编辑 / 复制 / 详情 / 改派 / 催单 / 取消选择 / 忘记密码），出现在操作列、卡片页脚、提示条、批量条里，形态是**同色胶囊描边**：`text.link` + `text.weight.label`（500），文字与描边同色（currentColor）、发丝线、`radius.full`、高 `control.height.sm`、无填充，**不斜体不下划线**，hover 换 `bg.hover` 底色；危险动作 `text.danger` 红字红边，hover `status.error-bg`；相邻胶囊间距 `space.inline`，不用「·」分隔——把动词排成斜体下划线像被强调的正文，是错的；与按钮的区别是不填充、描边是发丝线而不是 `border.strong`；**导览链接**——「查看全部」「查看列表」这类"去另一处看"的入口，不是动作也不是内容：`text.link` + 500，**文字 + 右箭头图标**（`icon.size.sm`）引导，不描边不斜体，hover 箭头右移 `spacing.0-5`；只有图标的版本（列表项右侧的 ›）用 `icon.muted`；**标题型链接**——列表项标题（待办、公告）本身可点，`text.primary` + 500，hover 出下划线。导航、标签页、分页、菜单是组件型链接，各有自己的颜色规则。注意中文字体没有真斜体，浏览器合成的假斜体在雅黑上可读性略降，所以链接文字宜短；**等宽数字型链接（订单号、单号）不斜体**，只保留下划线——数字斜体显歪。危险动作的内容型链接用 `text.danger` 红字（白底上），与普通链接分开。
+- 链接不用色相（品牌决定），分四层：**内容型链接**——正文、表格单元格里指向另一处内容的文字（订单号、商户名、活动名、公告正文里的链接），`color.text.link` 中性深灰 + 常态下划线（`text.link.decoration`）+ 斜体（`text.link.style`），hover 加深到 `text.link-hover`；**操作链接**——动词（编辑 / 复制 / 详情 / 改派 / 催单 / 取消选择 / 忘记密码），出现在操作列、卡片页脚、提示条、批量条里，形态是**同色胶囊描边**：`text.link`、`text.body-sm` 字号（13）、400 字重（描边已经给出"可点"的信号，再加粗就重了；与同一行的状态胶囊同一轻重），文字与描边同色（currentColor）、发丝线、`radius.full`、高 `control.height.xs`（24，与状态胶囊同高——比按钮最小档 sm 还低一档，才不会和按钮抢重量）、左右内边距 `spacing.2`、无填充，**不斜体不下划线**，hover 换 `bg.hover` 底色；危险动作 `text.danger` 红字红边，hover `status.error-bg`；相邻胶囊间距 `space.inline`，不用「·」分隔——把动词排成斜体下划线像被强调的正文，是错的；与按钮的区别是不填充、描边是发丝线而不是 `border.strong`；**导览链接**——「查看全部」「查看列表」这类"去另一处看"的入口，不是动作也不是内容：`text.link` + 500，**文字 + 右箭头图标**（`icon.size.sm`）引导，不描边不斜体，hover 箭头右移 `spacing.0-5`；只有图标的版本（列表项右侧的 ›）用 `icon.muted`；**标题型链接**——列表项标题（待办、公告）本身可点，`text.primary` + 500，hover 出下划线。导航、标签页、分页、菜单是组件型链接，各有自己的颜色规则。注意中文字体没有真斜体，浏览器合成的假斜体在雅黑上可读性略降，所以链接文字宜短；**等宽数字型链接（订单号、单号）不斜体**，只保留下划线——数字斜体显歪。危险动作的内容型链接用 `text.danger` 红字（白底上），与普通链接分开。
 - 亲和感与层次感来自灰、黑、黄三者的配比：黄只以纯色小面积出现（主按钮、进度填充、指示条、品牌徽标、two-tone 插图的填充），灰承担 90% 的面积与所有中间层次，黑承担选中与强调。hover / active 不换黄色的深浅（延伸色显脏），用边线变黑、内阴影表达。
 - 中性色是冷灰（gray 族），暗色深底与它同族。冷灰让品牌黄与深蓝近黑形成互补对比，黄更跳；暖灰会让整个界面显黄、显脏（「黄的淡色落在冷灰上变橄榄」的顾虑只在黄有延伸色时成立，本系统没有延伸色）。弱化文字（`color.text.muted`）最浅只到 neutral.500（白底 5.2:1、页面底上 4.7:1）；neutral.400 只允许出现在输入框占位符（`color.text.placeholder`）上，且占位符永远不能是字段唯一的标签——有可见标签的字段（含必填项）可以用占位符给格式或示例提示。
 - 状态色与图表色以公司调色板为**色相参考**（Success Green / Warning Orange / Danger Red / Info Cyan / Purple / Primary Blue），让多条产品线的状态语义看起来是一家的；具体值按对比度与冷暖调校，公司原值保留在 token 描述里。本系统主色是黄，所以调色板里的 Primary Blue 只做图表分类色，链接、焦点、选中态一律无色系。warning 是橙不是黄，与品牌黄靠色相区分——「主操作」和「警告」必须一眼分开；info 是青不是蓝。
@@ -84,7 +84,7 @@
 - 禁用态的淡黄是 `opacity.disabled` 的结果，不是延伸色，允许；不要为禁用态另造一套灰。
 - 表格行有四种底：默认（或斑马纹 `bg.subtle`）、`bg.hover`、`bg.selected-subtle`（选中）、`bg.selected-hover`（已选中再被悬停）。选中行用 subtle 而不是 `bg.selected`，是因为多选十行再加批量操作条会变成一面黄墙；`bg.selected` 留给徽标、筹码、批量条、侧栏这类小面积元素。选中状态同时由勾选框表达，不能只靠底色。
 - 三种“不可操作”要分清：禁用用 `opacity.disabled`（整个控件变淡）；只读用 `color.bg.readonly` + `text.secondary`（可读可复制，不可改）；加载中用骨架屏 `bg.skeleton / -highlight` 或 `action.primary-active` 的旋转指示器，不用禁用态假装加载。
-- 控件三档高度：`control.height.sm` 用于表格内、筹码、分页；`md` 是默认；`lg` 只用于登录按钮、页面级唯一主操作和触屏场景。
+- 控件三档高度：`control.height.sm` 用于表格内的按钮、筹码、分页；`md` 是默认；`lg` 只用于登录按钮、页面级唯一主操作和触屏场景。另有一档行内胶囊 `control.height.xs`（24）只给操作胶囊与状态胶囊——它不是按钮档，按钮最小到 sm。
 - 页面级宽度约束：单列表单页内容不超过 `layout.form.max-width`；确认类弹窗 `layout.modal.width.sm`，带表单的弹窗 `layout.modal.width.md`；抽屉 `layout.drawer.width`；登录卡 `layout.auth.card-width`。
 - 浮层分三层：下拉菜单、弹窗表面用 `color.bg.elevated`（暗色下必须比 `bg.surface` 亮一档，否则浮层和底板分不开）；弹窗遮罩用 `color.bg.overlay`；Tooltip 和深色 Toast 用 `color.bg.inverse` + `color.text.inverse`（亮色下深底白字，暗色下反过来）。
 - 阴影拆成颜色 + 偏移 + 模糊三个 Token，写法固定为 `box-shadow: 0 var(--elevation-<层>-y) var(--elevation-<层>-blur) var(--elevation-<层>-color)`，三层分别是 `card`、`popover`、`modal`，偏移与模糊逐层放大、颜色逐层加深，数值以 token 为准。卡片用「细边线定形 + 软阴影定层」：外框仍是 `border.default`（neutral.200）——它必须与页面底色 neutral.100 可区分，再浅一档就会与底色重合、边缘发虚；亲和感来自这层柔和阴影，而不是把边线抹掉。暗色下卡片阴影色是透明（靠边线分层），浮层和弹窗换成更重的黑色阴影。
@@ -134,14 +134,14 @@
 | 次要按钮 | `bg.surface`，hover `action.secondary-hover` | `text.primary` | `border.strong` |
 | 文字按钮（quiet） | 静息 `action.quiet` 浅底，hover / active `action.quiet-hover` | `text.link` / hover `text.link-hover` | 无边线；**按钮类内容不能无框架直接放在背景上**（用户规则）：要么描边（次要按钮），要么浅底（quiet），不允许裸文字当按钮 |
 | 内容型链接（订单号、名称、正文里的链接） | — | `text.link`，hover `text.link-hover` | `text.link.decoration` + `text.link.style`；等宽数字型链接不斜体 |
-| 操作链接（编辑 / 复制 / 详情 / 改派 / 催单 / 取消选择…） | 无填充；hover `bg.hover`（危险 `status.error-bg`） | `text.link` + `text.weight.label`；危险动作 `text.danger`（hover 不变色） | **同色胶囊描边**：`border.width.default` × currentColor，`radius.full`，高 `control.height.sm`，左右内边距 `spacing.2-5`；不斜体不下划线；相邻胶囊间距 `space.inline`，一行最多 3 个，其余收进「⋯」图标胶囊；导航用 `<a>`、不导航的动作用 `<button>`，二者同形；**不可用时保留位置、`opacity.disabled` 压淡**，不隐藏（列宽不跳） |
+| 操作链接（编辑 / 复制 / 详情 / 改派 / 催单 / 取消选择…） | 无填充；hover `bg.hover`（危险 `status.error-bg`） | `text.link` + `text.body-sm.size` + 400（`<a>` 与 `<button>` 同形：button 不要写 `font: inherit`，简写会把字重、行高一并重置）；危险动作 `text.danger`（hover 不变色） | **同色胶囊描边**：`border.width.default` × currentColor，`radius.full`，高 `control.height.xs`（与状态胶囊同高），左右内边距 `spacing.2`；不斜体不下划线；相邻胶囊间距 `space.inline`，一行最多 3 个，其余收进「⋯」图标胶囊；导航用 `<a>`、不导航的动作用 `<button>`，二者同形；**不可用时保留位置、`opacity.disabled` 压淡**，不隐藏（列宽不跳） |
 | 导览链接（查看全部 / 查看列表） | — | `text.link` + `text.weight.label`，hover `text.link-hover` | 文字 + 右箭头 `icon.size.sm`，hover 箭头右移 `spacing.0-5`；不描边不斜体；只有图标时（列表项右侧 ›）`icon.muted`，命中区 ≥ `control.hit-min` |
 | 标题型链接（待办、公告的标题） | — | `text.primary` + `text.weight.label`，hover `text.link-hover` + 下划线 | 不斜体、常态无下划线 |
 | 危险按钮 | `action.danger` / `-hover` / `-active` | `text.on-danger` | — |
 | 禁用态（任何控件） | 不换色 | 不换色 | `opacity.disabled` |
 | 输入框 / 搜索框 | `bg.input` | `text.primary`，占位符 `text.placeholder` | `border.input`；聚焦 `border.focus` + `focus.ring` × `focus.ring.width`；出错 `status.error` |
 | 卡片 | `bg.surface` | — | `border.default`，`radius.lg`，`elevation.card.*`，内边距 `space.card` |
-| 表格 | 表头 `bg.subtle`；斑马纹 `bg.subtle`；行 hover `bg.hover`；选中 `bg.selected-subtle`；选中 + hover `bg.selected-hover` | 表头 `text.secondary`（`text.small.size`），副行 `text.muted`，数字列 `text.numeric.variant` | 行分隔 `border.default`；单元格内边距 `table.cell.padding-y / -x`；排序激活 `text.selected`；固定列右缘 `elevation.popover.*`。**操作列**：默认是一串操作胶囊（详情 改派 ⋯，间距 `space.inline`），危险动作红字红边；列宽按胶囊估算——两字胶囊约 52px、四字约 80px、图标胶囊约 36px，加间距与单元格内边距，胶囊不得换行；只有审批类决定（通过 / 拒绝、确认 / 驳回）用 small quiet 文字按钮（`text` + `size="small"`），危险的用 `type="danger" text`（红字 + `status.error-bg` 浅红底，hover 同色发丝边——不是灰底红字）；无论哪种形态，**危险动作不得与普通动作同色**；一行最多 3 个动作，更多收进下拉「更多」；不可操作的行放 `text.muted` 的「—」；不用描边次要按钮排成一列；单元格里的名称 / 单号才是内容型链接 |
+| 表格 | 表头 `bg.subtle`；斑马纹 `bg.subtle`；行 hover `bg.hover`；选中 `bg.selected-subtle`；选中 + hover `bg.selected-hover` | 表头 `text.secondary`（`text.small.size`），副行 `text.muted`，数字列 `text.numeric.variant` | 行分隔 `border.default`；单元格内边距 `table.cell.padding-y / -x`；排序激活 `text.selected`；固定列右缘 `elevation.popover.*`。**操作列**：默认是一串操作胶囊（详情 改派 ⋯，间距 `space.inline`），危险动作红字红边；列宽按胶囊估算——两字胶囊约 44px、四字约 70px、图标胶囊约 28px，加间距与单元格内边距，胶囊不得换行；只有审批类决定（通过 / 拒绝、确认 / 驳回）用 small quiet 文字按钮（`text` + `size="small"`），危险的用 `type="danger" text`（红字 + `status.error-bg` 浅红底，hover 同色发丝边——不是灰底红字）；无论哪种形态，**危险动作不得与普通动作同色**；一行最多 3 个动作，更多收进下拉「更多」；不可操作的行放 `text.muted` 的「—」；不用描边次要按钮排成一列；单元格里的名称 / 单号才是内容型链接 |
 | 筛选栏 | 条件区无底；控件不带可见标签，靠 `aria-label` 命名（筛选栏是紧凑形态，占位符规则在这里的例外只有关键词框：占位符列出可搜字段，且带 `aria-label` 与清除按钮） | 下拉默认值是真实选项「全部…」，用正文色 | 条件区 / 动作区两组；动作区「查询」主按钮 +「重置」quiet 文字按钮，`margin-left: auto`，折行时整体换行右对齐；关键词框宽 `layout.search-width`，其余控件按内容定宽 |
 | 已选筹码 / 批量操作条 | `bg.selected` | 「已选 N 项」`text.selected` + `text.weight.strong`；带「取消选择」内容型链接 | 按钮 small：普通批量为次要按钮，破坏性批量为实底危险按钮；条随勾选出现，位于表格上方 |
 | 选项卡片（改派骑手、派单选单） | 默认 `bg.surface`；hover `bg.hover`；选中 `bg.selected-subtle` | `text.primary`，meta `text.muted` | 边线 `border.default`，选中 `border.focus`；卡片撑满容器宽度（radio-group 默认 align-items:center 会把它挤成内容宽） |

diff --git a/citrine/seeds/brand-yellow-e/README.md b/citrine/seeds/brand-yellow-e/README.md
@@ -2,7 +2,7 @@
 
 > 种子目录代号仍是 `brand-yellow-e`（脚本与文档中的路径不变）；系统名称 Citrine（黄晶）见仓库根 README。
 
-版本 2.2.0 · 公司级中后台设计规范（单品牌线）· 变更见 [CHANGELOG.md](CHANGELOG.md)
+版本 2.3.0 · 公司级中后台设计规范（单品牌线）· 变更见 [CHANGELOG.md](CHANGELOG.md)
 
 一套已通过 `design-system-steward` `validate-system` / `build-tokens` / `guard` 的 DTCG 设计系统起点。复制进任何项目就是 Core + dark Theme；视觉效果见 `../../previews/yellow-admin/`：`admin.html` 是工作台，`stress.html` 是登录、列表、表单、详情、反馈、折叠侧栏六类页面的压力测试（方案 S 全部由构建产物驱动）。
 
@@ -55,7 +55,7 @@ node <skill>/scripts/guard.mjs --project /path/to/project            # 应为 cu
 ## 四项公司级品牌决定（2026-09-08）
 
 - 单品牌线：这套就是公司中后台的唯一规范，不做多品牌拆分。
-- 链接无色系：`color.text.link` 是中性深灰。内容型链接（订单号、名称）靠常态下划线 + 斜体识别；操作链接（编辑 / 详情 / 改派等动词）是同色胶囊描边、500 字重、不斜体，hover 换底色；导览链接（查看全部）是文字 + 右箭头图标；标题型链接近黑 + 500。中文假斜体可读性略降，内容型链接文字宜短。
+- 链接无色系：`color.text.link` 是中性深灰。内容型链接（订单号、名称）靠常态下划线 + 斜体识别；操作链接（编辑 / 详情 / 改派等动词）是同色胶囊描边（`control.height.xs` 24 高、13px、400 字重，与状态胶囊同一轻重）、不斜体，hover 换底色；导览链接（查看全部）是文字 + 右箭头图标；标题型链接近黑 + 500。中文假斜体可读性略降，内容型链接文字宜短。
 - 财务涨跌 = 涨绿跌红：`color.data.increase / decrease`，与 A 股惯例相反；改约定只改这两个别名。
 - 密度只有舒适一档：不提供紧凑 Theme（2.0.0 起移除）。
 
@@ -68,7 +68,7 @@ node <skill>/scripts/guard.mjs --project /path/to/project            # 应为 cu
 - 线宽四档各有用途（普通边线 / 小控件边线 / 选中下划线与焦点外框 / 侧栏指示条），焦点环粗细单独是 `focus.ring.width`。
 - 阴影写法固定：`box-shadow: 0 var(--elevation-card-y) var(--elevation-card-blur) var(--elevation-card-color)`，三层 card / popover / modal；暗色下卡片阴影色透明、浮层换黑色半透明。
 - 浮层三件：`bg.elevated`（暗色比 surface 亮一档）、`bg.overlay`、`bg.inverse` + `text.inverse`。组件与 token 的完整对照见 `design-system/DESIGN.md` 的「组件配方」。
-- 字号是 8 档离散阶梯（12～32px），`text.body.size` 14px 是根字号；中文不低于 12px，不在阶梯外取值。字重 400 / 500 / 600 / 700：标签类文字（按钮、表头、表单标签）用 500；徽标 / 状态胶囊 400（浅底已提供识别）；侧栏菜单项与分段选择器默认 400、选中 500（反转块组件不叠 600），雅黑上退回常规、600 等于加粗。不要 `-webkit-font-smoothing: antialiased`，Mac 上会把中文削细一档。
+- 字号是 8 档离散阶梯（12～32px），`text.body.size` 14px 是根字号；中文不低于 12px，不在阶梯外取值。字重 400 / 500 / 600 / 700：标签类文字（按钮、表头、表单标签）用 500；徽标 / 状态胶囊 / 操作胶囊 400（浅底或描边已提供识别）；侧栏菜单项与分段选择器默认 400、选中 500（反转块组件不叠 600），雅黑上退回常规、600 等于加粗。不要 `-webkit-font-smoothing: antialiased`，Mac 上会把中文削细一档。
 - 横向表单标签列宽 `layout.form.label-width`（112px，容纳 6 个汉字 + 必填星号）；表格单元格内边距 `table.cell.padding-y / -x`；侧栏折叠宽 `layout.sidebar.collapsed-width`；图标六档 `icon.size.xs…2xl`；页面级宽度 `layout.form.max-width / modal.width.sm·md / drawer.width / auth.card-width`。
 - 黄色表达主操作、不表达选中：分段选择、视图 / 状态切换、侧栏当前项都用深黑反转块 `action.selected` + `text.on-selected`。表格选中行 `bg.selected-subtle` 与筹码、批量条的 `bg.selected` 都是冷灰——选中态里没有黄色。大面积品牌黄只允许出现在登录页 `bg.brand`；白底黄色文字只有 `text.brand` 一个角色且仅限 ≥ 20px。
 - 图标库是字节 IconPark：线性、圆头、描边 4、尺寸走 font-size；选中项图标不换风格（靛黑反转块 + 品牌色竖条表达选中）；需要面性外观时用 multi-color 而不是 filled（后者镂空写死白色）；颜色角色 `icon.default / muted / brand / two-tone`。

diff --git a/citrine/testbed/golden-admin/FINDINGS.md b/citrine/testbed/golden-admin/FINDINGS.md
@@ -82,6 +82,7 @@
 | D33 | 结算表退款列逐行红字、合计行黑字；"确认新密码"没有必填星号；改派抽屉文案"6 位空闲骑手"里 3 位忙碌 | 页面细节 | 页面 | 退款列改普通数字（退款不是涨跌语义）；补 required 规则；改文案 |
 | D70 | 盲测三：详情 + 页签 + 操作日志 | 新规则全部被正确使用；13 条猜测集中在详情页骨架、页头动作档位、胶囊禁用态、中性时间线、内容级不存在、附件卡 | 文档 + 公共类 | 2.1.3：详情页骨架配方、`.act` 禁用与 button 重置进公共类、附件卡配方；两处文档矛盾修正 |
 | D71 | 暗色深底整族去蓝（用户反馈"板块和背景过蓝"） | graphite 色相对齐 gray 族暗端后 C≈0.031，在大面积深底上被放大成藏青；只需降色度，明度与色相不动即可保住冷调与全部对比度 | token（graphite 7 档 + scrim / mask + 5 个 wash 重算） | 2.2.0：OKLCH C 压到 60%（≈0.018）；亮色 neutral.900 与旧 graphite.850 同值属巧合、不动；预览 `.dark` 块按此区分同步，验收全绿、E/S 一致 |
+| D72 | 操作胶囊加描边后"太大太重"，且 `<a>` / `<button>` 粗细不一 | 胶囊沿用按钮最小档 sm（28）与 500 字重，和同一行 24 高、400 字重的状态胶囊放一起就显重；`button.act { font: inherit }` 简写把字重行高一并重置 | token（新增 `control.height.xs`）+ 公共类 + 文档 | 2.3.0：`.act` 改 24 高 / 8 内边距 / 13px / 400，字体三项由 `.act` 自己声明；DESIGN 控件档位与操作列宽估算同步 |
 | D69 | 操作链接需要更明确的可点击感；「查看全部」是另一类（用户规则） | 纯文字 500 字重的动作与正文区分仍弱；导览入口与动作混在一类 | 规则 + 公共类 | 2.1.2：操作链接同色胶囊描边（`.act`），导览链接文字 + 箭头（`.go`）；链接分四层 |
 | D68 | 动作链接（编辑 / 复制 / 详情…）套了内容型链接的斜体下划线（用户反馈） | 一套链接样式承担了内容与动作两种语义 | 规则 + 公共类 | 2.1.1：链接分三层，新增 `.act` 操作链接；25 处改用 |
 | D67 | 暗色人眼走查 | 整体一致；已结束进度条灰与轨道几乎同色；登录页暗色未被验收覆盖；"已读行更亮"为截图伪影 | token + 工具 | 2.1.0：新增 `data.inactive`；页面清单去掉 login 的强制亮色 |
